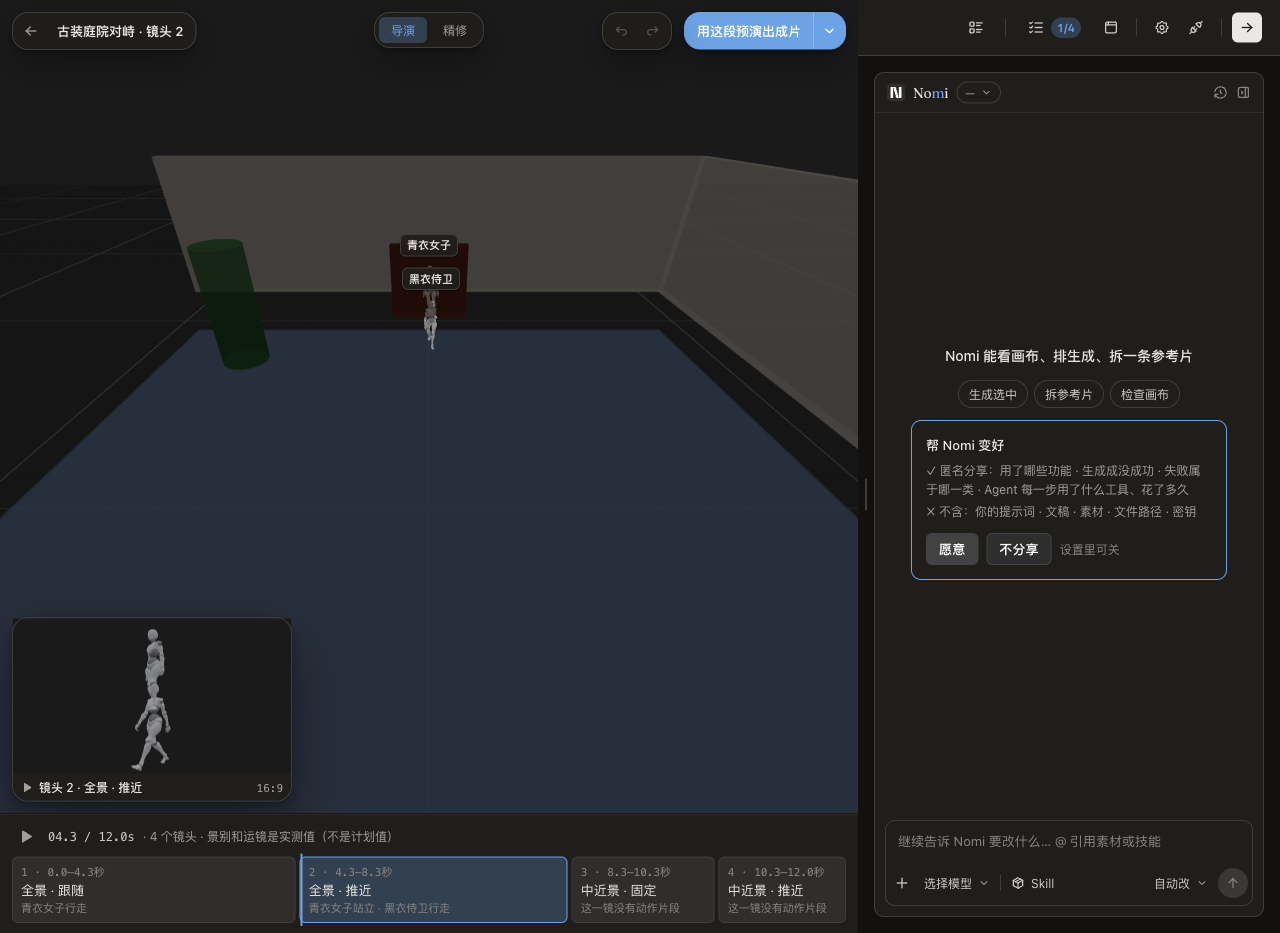
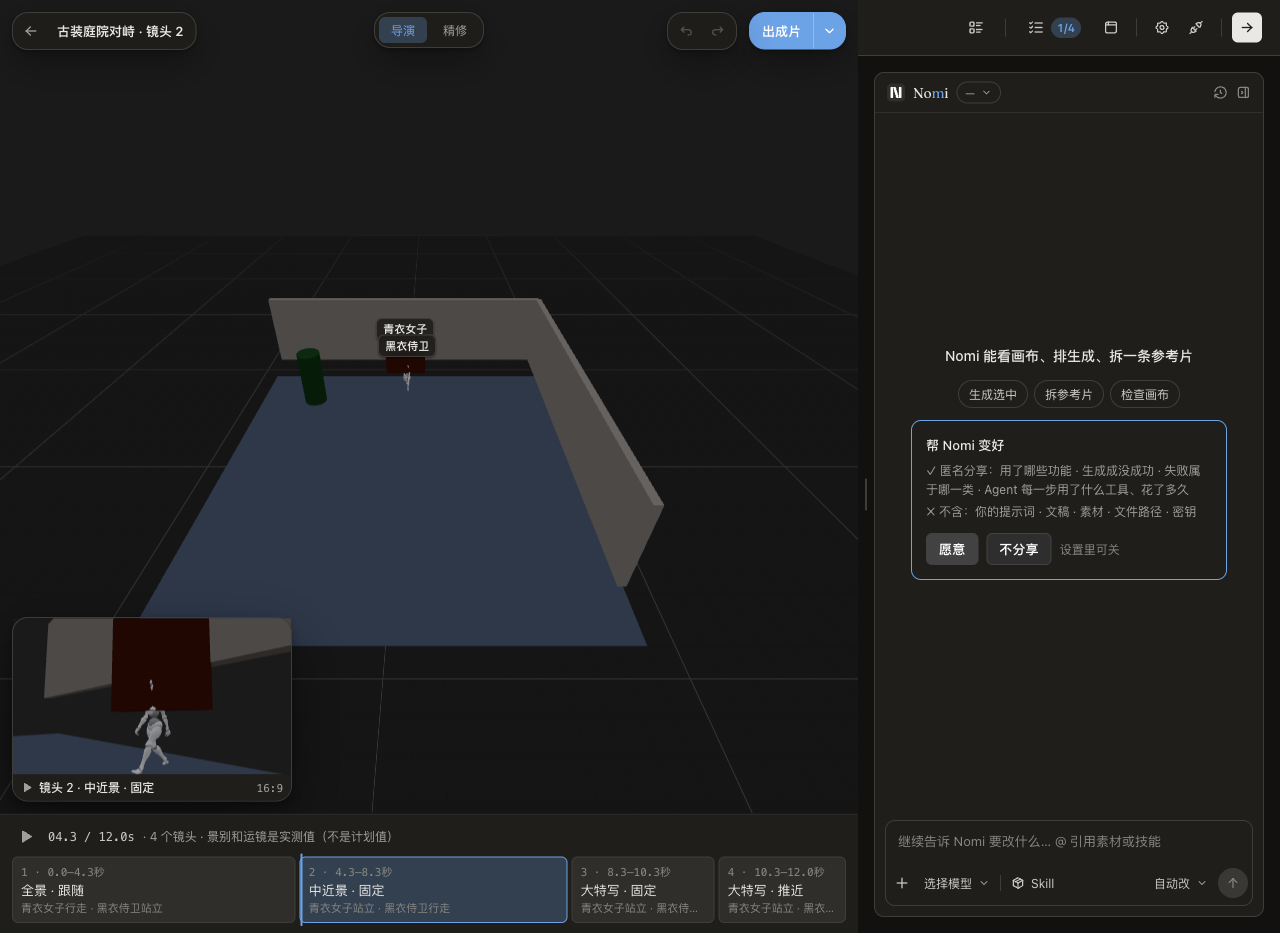
fix(director): close phase 3a shell evidence

diff --git a/src/workbench/generationCanvas/nodes/director/DirectorViewShell.tsx b/src/workbench/generationCanvas/nodes/director/DirectorViewShell.tsx
@@ -2,7 +2,7 @@
  * [INPUT]: 依赖 react、react-i18next、./DirectorEditorContext、./model/directorShotSummaries、./panels/viewport/DirectorViewport、
  *          ./panels/topbar/DirectorTopBar 的 Cluster、./panels/shotStrip/{DirectorShotStrip, shotLabels}、../../../../design、../../../../vendor/tablerIcons
  * [OUTPUT]: 对外提供 DirectorViewShell 与 DirectorViewMode：3D-BOX 开关开时的默认面「导演视图」
- * [POS]: 导演视图 = 顶栏三区（左：返回 + 「工程名 · 镜头 N」｜中：导演 / 精修｜右：撤销 / 重做 + 用这段预演出成片 ▾）+ 视口（小窗左下）+ 镜头条。
+ * [POS]: 导演视图 = 顶栏三区（左：返回 + 「工程名 · 镜头 N」｜中：导演 / 精修｜右：撤销 / 重做 + 出成片 ▾）+ 视口（小窗左下）+ 镜头条。
  *        「镜头 N」、小窗标题、镜头条高亮三处都从同一个播放头 derive（directorShotSummaries），不另存「当前镜」。
  *        重置视角不在这里：它属于精修顶栏「视图」簇（一功能一个家，§1.5.2），快捷键照常可用。
  *        进场时自由相机落到 directorOverviewPose 的「看全场」位姿一次，之后随用户转动。
@@ -98,7 +98,7 @@ export function DirectorViewShell({ nodeTitle, scopeRef, placement, boxDraw, can
           <WorkbenchIconButton size="sm" icon={<IconArrowBackUp size={16} stroke={1.9} />} label={t('director.view.undo')} disabled={!canUndo} onClick={undo} />
           <WorkbenchIconButton size="sm" icon={<IconArrowForwardUp size={16} stroke={1.9} />} label={t('director.view.redo')} disabled={!canRedo} onClick={redo} />
         </Cluster>
-        <div className="pointer-events-auto inline-flex shrink-0 rounded-nomi-lg border border-nomi-accent bg-nomi-accent text-body-sm font-semibold text-white shadow-nomi-md disabled:cursor-not-allowed disabled:opacity-60" role="group" aria-label={t('director.view.produce')} data-testid="director-produce-placeholder" title={t('director.view.producePlaceholder')}>
+        <div className="pointer-events-auto inline-flex shrink-0 rounded-nomi-lg border border-nomi-accent bg-nomi-accent text-body-sm font-semibold text-white shadow-nomi-md disabled:cursor-not-allowed disabled:opacity-60" role="group" aria-label={t('director.view.produce')} data-testid="director-produce-placeholder" title={`${t('director.view.produceDescription')} · ${t('director.view.producePlaceholder')}`}>
           <button type="button" className="min-w-0 whitespace-nowrap px-3 py-2" disabled onClick={onProduce}>{t('director.view.produce')}</button>
           <button type="button" className="grid shrink-0 place-items-center border-l border-white/25 px-2" disabled aria-label={t('director.view.produceMenu')}><IconChevronDown size={15} stroke={2} aria-hidden="true" /></button>
         </div>

diff --git a/src/i18n/locales/director.ts b/src/i18n/locales/director.ts
@@ -30,7 +30,8 @@ export const zhDirector = {
     title: '导演视图',
     titleWithShot: '{{title}} · 镜头 {{index}}',
     shotsAria: '只读镜头条',
-    produce: '用这段预演出成片',
+    produce: '出成片',
+    produceDescription: '用这段预演出成片',
     produceMenu: '打开出片选项',
     producePlaceholder: '3b 接入前暂不可用',
     undo: '撤销',
@@ -959,7 +960,8 @@ export const enDirector = {
     title: 'Director view',
     titleWithShot: '{{title}} · Shot {{index}}',
     shotsAria: 'Read-only shot strip',
-    produce: 'Produce from this preview',
+    produce: 'Produce',
+    produceDescription: 'Produce from this preview',
     produceMenu: 'Open production options',
     producePlaceholder: 'Unavailable until 3b is connected',
     undo: 'Undo',

diff --git a/src/devlab/designLab/director3dbox/director3dboxLazyStage.tsx b/src/devlab/designLab/director3dbox/director3dboxLazyStage.tsx
@@ -11,7 +11,6 @@ const Stage = React.lazy(() => import('./director3dboxLabKit').then((module) => 
 
 export function Director3dBoxLazyStage({ locale, fixture, drive = 'none' }: { locale: AppLocale; fixture: Director3dBoxFixture; drive?: LabDrive }): JSX.Element {
   const [release] = React.useState(() => holdDesignLabReady('director-3dbox'))
-  React.useEffect(() => release, [release])
   return (
     <React.Suspense fallback={null}>
       <Stage locale={locale} fixture={fixture} drive={drive} release={release} />

diff --git a/src/workbench/generationCanvas/nodes/director/model/directorEvalMeasurement.ts b/src/workbench/generationCanvas/nodes/director/model/directorEvalMeasurement.ts
@@ -13,6 +13,8 @@ import { forwardFromAngles, normalize, signedDeg, sub } from './vec3'
 import { CAMERA_MOVES, EVAL_SHOT_SIZES, type CameraMove, type EvalShotSize } from '../../../../../../electron/shared/director/vocab'
 import type { StagingShot } from '../agent/stagingVocab'
 
+export type { EvalShotSize }
+
 /**
  * Shot size is read from `heightRatio` = projected subject height / frame height (unclamped; >1 means the subject
  * runs past the frame edges, which is what medium and close shots are).

diff --git a/src/workbench/generationCanvas/nodes/director/agent/cameraMoveVocab.ts b/src/workbench/generationCanvas/nodes/director/agent/cameraMoveVocab.ts
@@ -6,7 +6,9 @@
  * [PROTOCOL]: 变更时更新此头部，然后检查 CLAUDE.md
  */
 import { SHOT_FRAMING, type StagingShot } from './stagingVocab'
-import type { CameraMove } from '../../../../../../electron/shared/director/vocab'
+import { CAMERA_MOVES, type CameraMove } from '../../../../../../electron/shared/director/vocab'
+
+export { CAMERA_MOVES }
 
 export { SHOT_FRAMING }
 export type { StagingShot }

diff --git a/docs/evidence/2026-10-04-director-3dbox-shell/README.md b/docs/evidence/2026-10-04-director-3dbox-shell/README.md
@@ -1,6 +1,6 @@
 # 导演视图（3D-BOX）外壳 · 第六轮证据（2026-10-04）
 
-**截图所用代码 = `7949f5d3dbb40dd7adeeba28d67cdf2d1715271f`**（feat(director): 导演视图按样张改生产组件并立设计实验室屏）。
+**截图所用代码 = 本轮合入 `origin/main` 后的任务分支（按钮文案与实验室就绪修复）**（feat(director): 导演视图按样张改生产组件并立设计实验室屏）。
 之后还有两笔非生产代码提交：`a928f2767`（取证脚本超时改用站点预算，数值不变）、`63985de4f`（实验室格子改为动态加载）；后者之后重截的实验室六张与本目录逐字节相同（`cmp` 校验）。每张 1280×933 PNG、均 < 400 KB，逐张人眼 Read 过。
 前五轮的旧图（`zh-*.png` / `en-*.png` / `flag-off-legacy-director.png`）已删：它们不是同一份代码截的，留着会被当成本轮收据。
 
